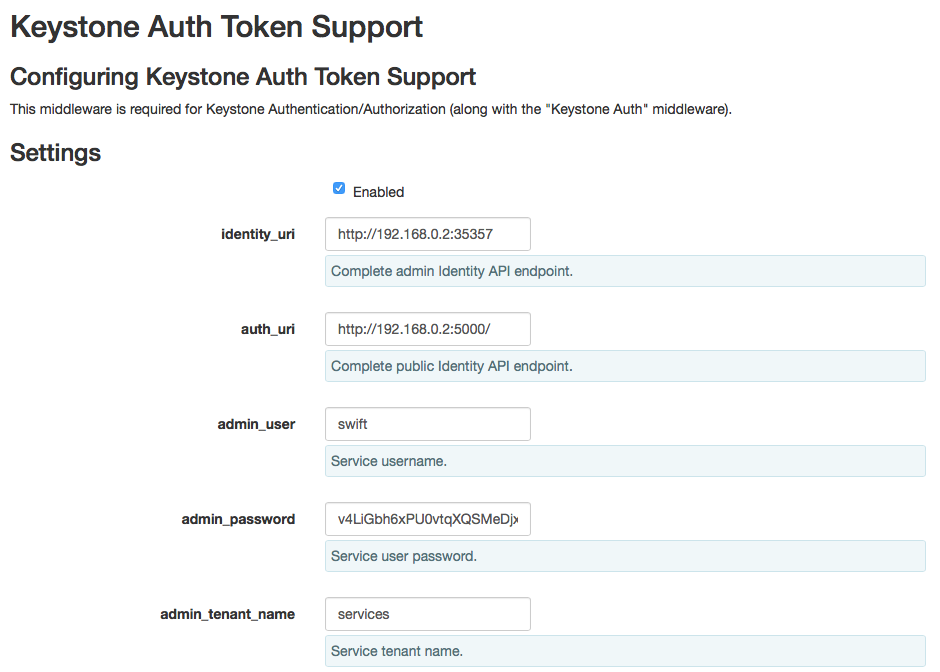
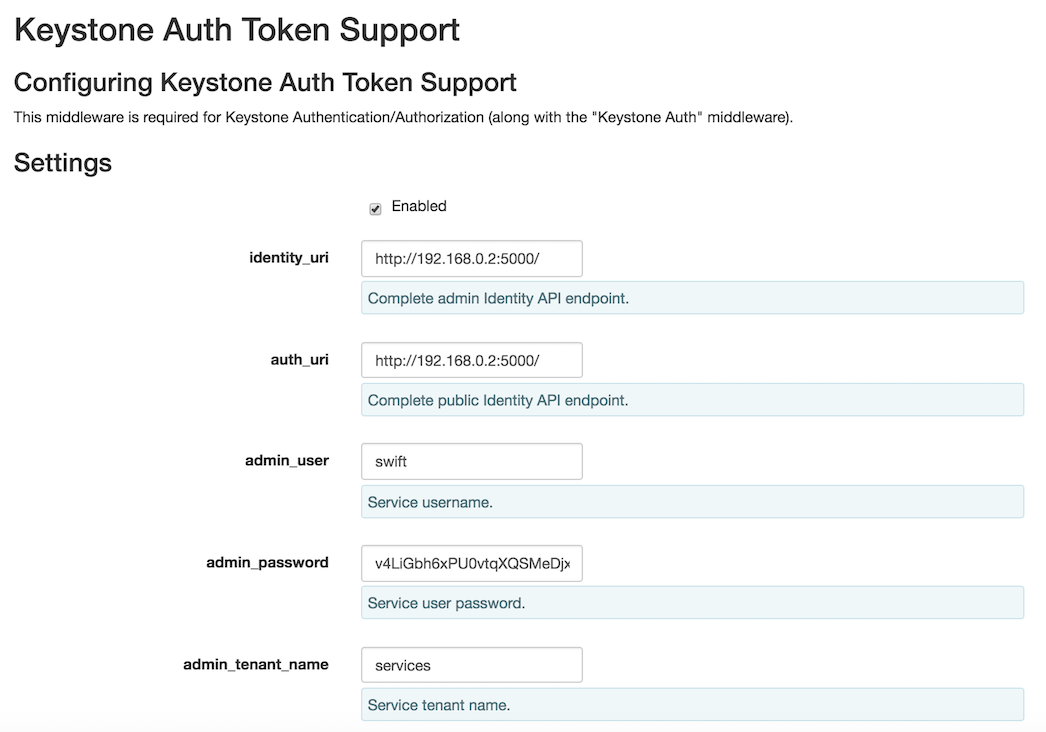
Change identity url port to 5000.
Closes-Bug: 1591140

diff --git a/doc/user.rst b/doc/user.rst
@@ -290,7 +290,7 @@ Deploying Mirantis OpenStack with a SwiftStack Swift cluster
 
         echo "Configure Keystone Auth Token Support middleware with the parameters below :" 
         echo "----------------------------------------------------------------------------" 
-        echo "  identity_url      : http://$SwiftIP:35357/"  
+        echo "  identity_url      : http://$SwiftIP:5000/"  
         echo "  auth_url          : http://$SwiftIP:5000/" 
         echo "  admin_user        : swift" 
         echo "  admin_password    : $SwiftPW" 
@@ -311,7 +311,7 @@ Deploying Mirantis OpenStack with a SwiftStack Swift cluster
         Default deployment info was downloaded to /root/deployment_5
         Configure Keystone Auth Token Support middleware with the parameters below :
         ----------------------------------------------------------------------------
-          identity_url      : http://192.168.0.2:35357/
+          identity_url      : http://192.168.0.2:5000/
           auth_url          : http://192.168.0.2:5000/
           admin_user        : swift
           admin_password    : v4LiGbh6xPU0vtqXQSMeDjxc
@@ -325,7 +325,7 @@ Deploying Mirantis OpenStack with a SwiftStack Swift cluster
 
         .. code-block:: bash
 
-            identity_url:      http://192.168.0.2:35357/
+            identity_url:      http://192.168.0.2:5000/
             auth_url:          http://192.168.0.2:5000/
             admin_user:        swift
             admin_password:    v4LiGbh6xPU0vtqXQSMeDjxc
